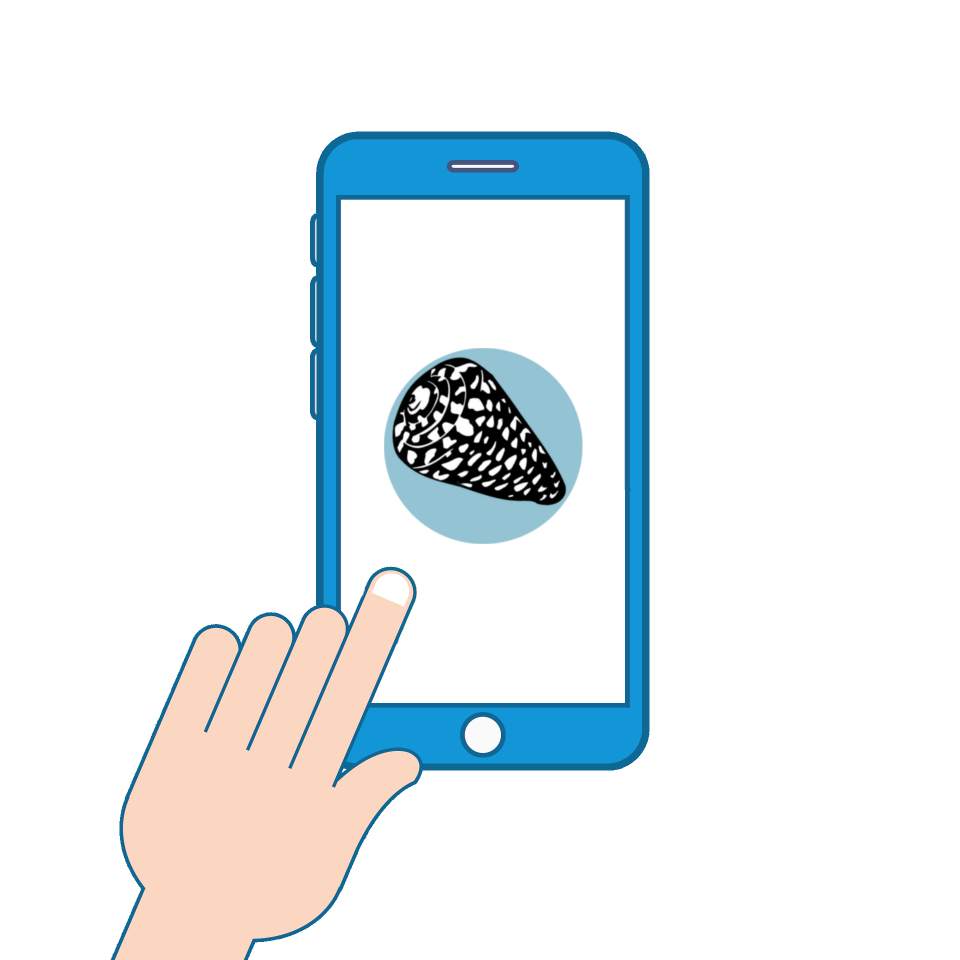
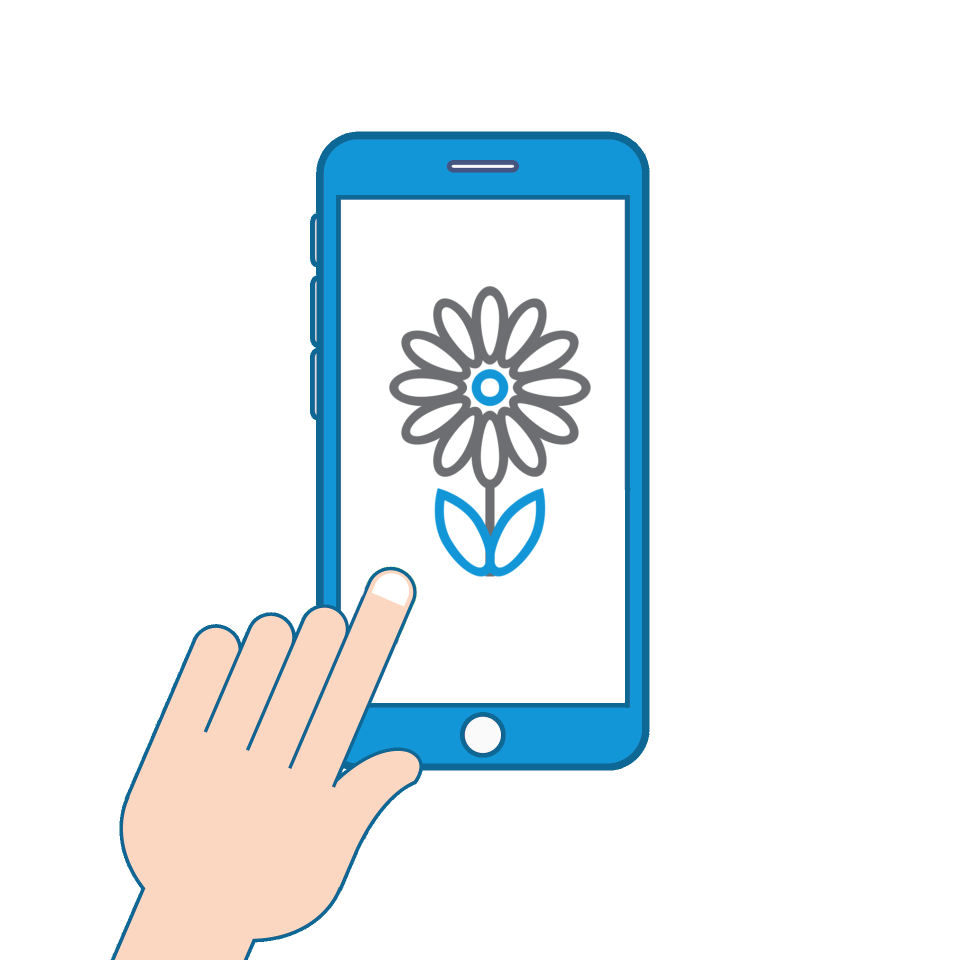
colors, strings and default preview image replaced

Changed region(s): [[0.375, 0.2812, 0.625, 0.625]]

diff --git a/lib/history/history_page.dart b/lib/history/history_page.dart
@@ -10,17 +10,10 @@ class HistoryPage extends StatefulWidget {
   HistoryPage({this.onPush});
   final ValueChanged<Task> onPush;
 
-  //List<Task> tasks = [];
-
-  //bool resultsPage = false;
-
-  //Task currentTask;
-
   @override
   State<StatefulWidget> createState() {
     return HistoryPageState();
   }
-
 }
 
 class HistoryPageState extends State<HistoryPage> with AutomaticKeepAliveClientMixin{
@@ -44,38 +37,34 @@ class HistoryPageState extends State<HistoryPage> with AutomaticKeepAliveClientM
     super.didUpdateWidget(oldWidget);
   }
 
-  /*@override
-  void initState() {
-    loadTasks().then((t){
-      setState(() {
-        print(t);
-        tasks = t;
-        for(Task t in tasks){
-          precacheImage(FileImage(File(t.image_paths[0])),context);
-        }
-      });
-    });
-    super.initState();
-  }*/
-
   @override
   Widget build(BuildContext context) {
+
+    var body;
+    if(tasks.isNotEmpty){
+      body = GridView.count(
+          crossAxisCount: 2,
+          mainAxisSpacing: 15.0,
+          crossAxisSpacing: 15.0,
+          childAspectRatio: 1.5,
+          padding: EdgeInsets.only(left: 10.0, top: 10.0, right: 10.0, bottom: 0.0),
+          children: buildGridTiles(tasks)
+      );
+    }else{
+      body = Container(
+        child: Align(
+          alignment: Alignment.center,
+          child: Text(AppStrings.no_history),
+        ),
+      );
+    }
+
     return Scaffold(
       appBar: AppBar(
         backgroundColor: AppColors.primary_color,
         title: Text(AppStrings.app_label),
       ),
-      body:
-      GridView.count(
-            crossAxisCount: 2,
-            mainAxisSpacing: 15.0,
-            crossAxisSpacing: 15.0,
-            //padding: EdgeInsets.all(10.0),
-            childAspectRatio: 1.5,
-            padding: EdgeInsets.only(left: 10.0, top: 10.0, right: 10.0, bottom: 0.0),
-            children: buildGridTiles(tasks)
-        ),
-
+      body: body
     );
   }
 
@@ -85,11 +74,9 @@ class HistoryPageState extends State<HistoryPage> with AutomaticKeepAliveClientM
           return Container(
             child: GestureDetector(
               onTap: () {
-                //widget.onPush(tasks[index]);
                 var future = Navigator.push(context, MaterialPageRoute(builder: (context) => ResultPage(task: tasks[index])));
                 future.then((val){
                   if(val == true){
-                    //print("popped:" + val.toString());
                     loadTasks().then((t){
                       setState(() {
                         print(t);
@@ -104,7 +91,7 @@ class HistoryPageState extends State<HistoryPage> with AutomaticKeepAliveClientM
                   FadeInImage(
                       fit: BoxFit.cover,
                       width: double.infinity,
-                      placeholder: MemoryImage(kTransparentImage),//AssetImage("assets/images/plant.png"),
+                      placeholder: MemoryImage(kTransparentImage),
                       image: FileImage(File(tasks[index].image_paths[0]))
                   ),
                   Align(

diff --git a/lib/task/analysis_page.dart b/lib/task/analysis_page.dart
@@ -409,15 +409,29 @@ class AnalysisPageState extends State<AnalysisPage> with AutomaticKeepAliveClien
   }
 
   onStartTaskPressed() async {
-
     final photoPaths = getImagePathsList(items);
+    List <UploadFileInfo> pitems = [];
+    List <FormData> fdatas = [];
 
-    FormData formData = new FormData.from({
-      "data": photoPaths
-    });
+    for(String p in photoPaths){
+      pitems.add(UploadFileInfo(File(p), p));
+      var pitem = UploadFileInfo(File(p), p);
+      fdatas.add(FormData.from({
+        "data": pitem
+      }));
+    }
+
+
+
+
+
+    FormData formData = new FormData.from(
+        {
+      "data": pitems}
+    );
+
 
     controller.forward();
-
     Response response = await Dio().post(AppStrings.api_url + AppStrings.post_endpoint, data: formData).catchError((Object error){
       setState(() {
         controller.reset();
@@ -425,14 +439,12 @@ class AnalysisPageState extends State<AnalysisPage> with AutomaticKeepAliveClien
       });
     });
 
+
+
     if(response.statusCode == 200){
       final parsed = json.decode(response.toString());
-
       Results results = Results.fromJson(parsed);
-
-      //HistoryRepository hr = HistoryRepository();
       controller.reset();
-      //final task = await hr.addTask(photoPaths, results);
       addTaskToRepository(photoPaths, results).then((t){
         setState(() {
           setDefaultData();

diff --git a/lib/utils/constants.dart b/lib/utils/constants.dart
@@ -1,7 +1,7 @@
 import 'package:flutter/material.dart';
 
 class AppStrings {
-  static String app_label = "Marine Conus API";
+  static String app_label = "INDIGO Plant Recognition";
   static String analysis = "Analysis";
   static String history = "History";
   static String credits = "Credits";
@@ -14,13 +14,14 @@ class AppStrings {
   static String delete_alert_content = "The image will be deleted. Are you sure?";
   static String no = "NO";
   static String yes = "YES";
+  static String no_history = "No history";
 }
 
 class AppColors {
-  static const Color primary_color = Color(0xFF35B4C5);
-  static const Color accent_color = Color(0xFF3990DC);
+  static const Color primary_color = Color(0xFF4CAF50);
+  static const Color accent_color = Color(0xFFCDDC39);
   static const Color notification_color = Color(0xD3212121);
-  static const Color primary_dark_color = Color(0xFF007393);
+  static const Color primary_dark_color = Color(0xFF388E3C);
 }
 
 class AppDimensions {

diff --git a/lib/history/result_page.dart b/lib/history/result_page.dart
@@ -86,7 +86,7 @@ class ResultPage extends StatelessWidget {
                               text_color = Colors.red;
                               icon = Icon(
                                 Icons.warning,
-                                color: Colors.grey,
+                                color: Colors.white,
                               );
                             }else{
                               text_color = Colors.white;
